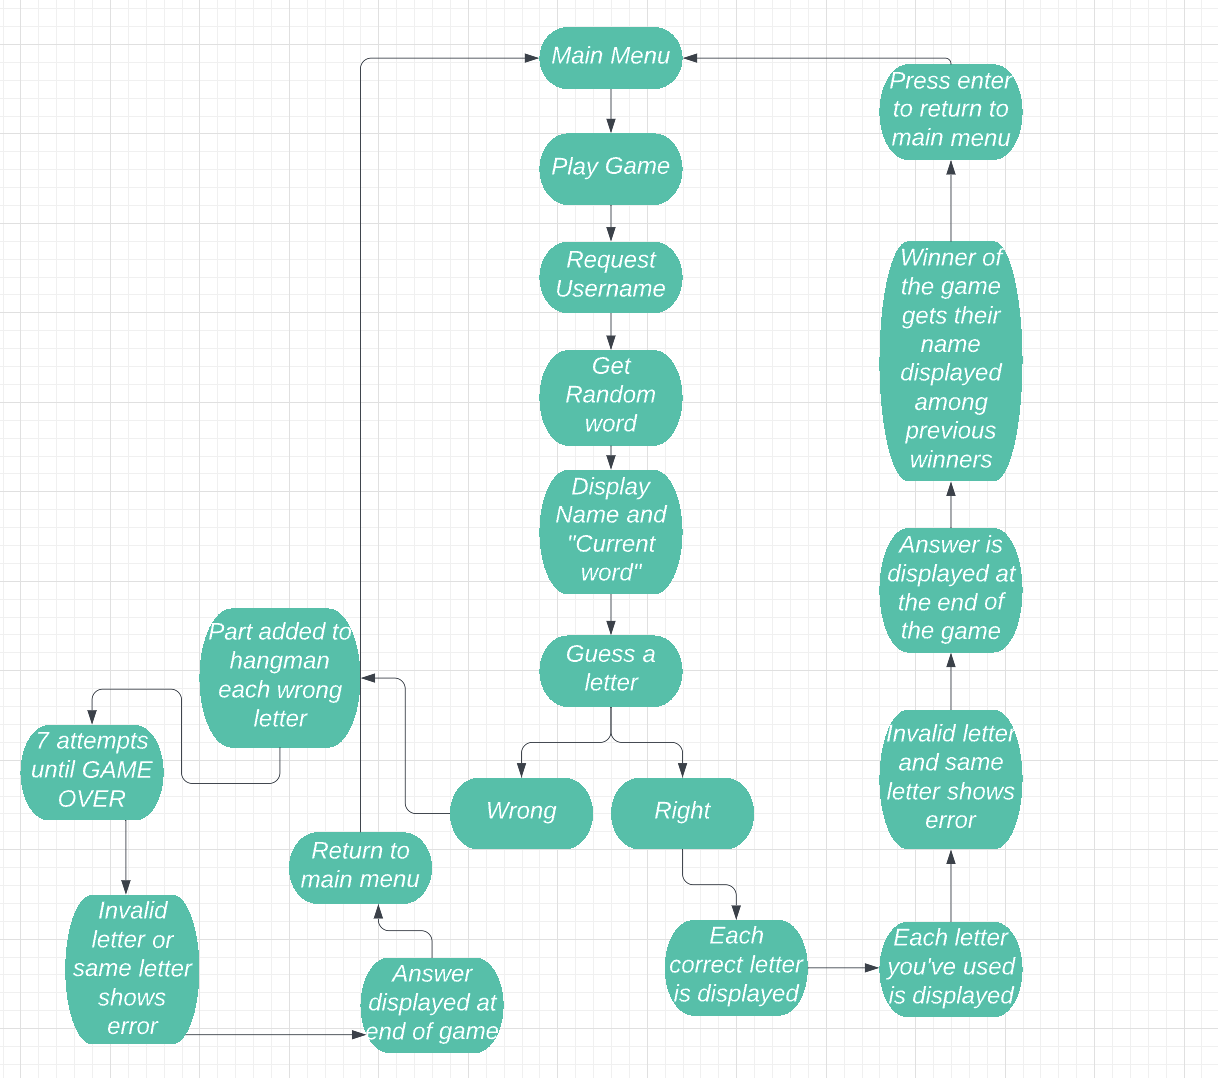
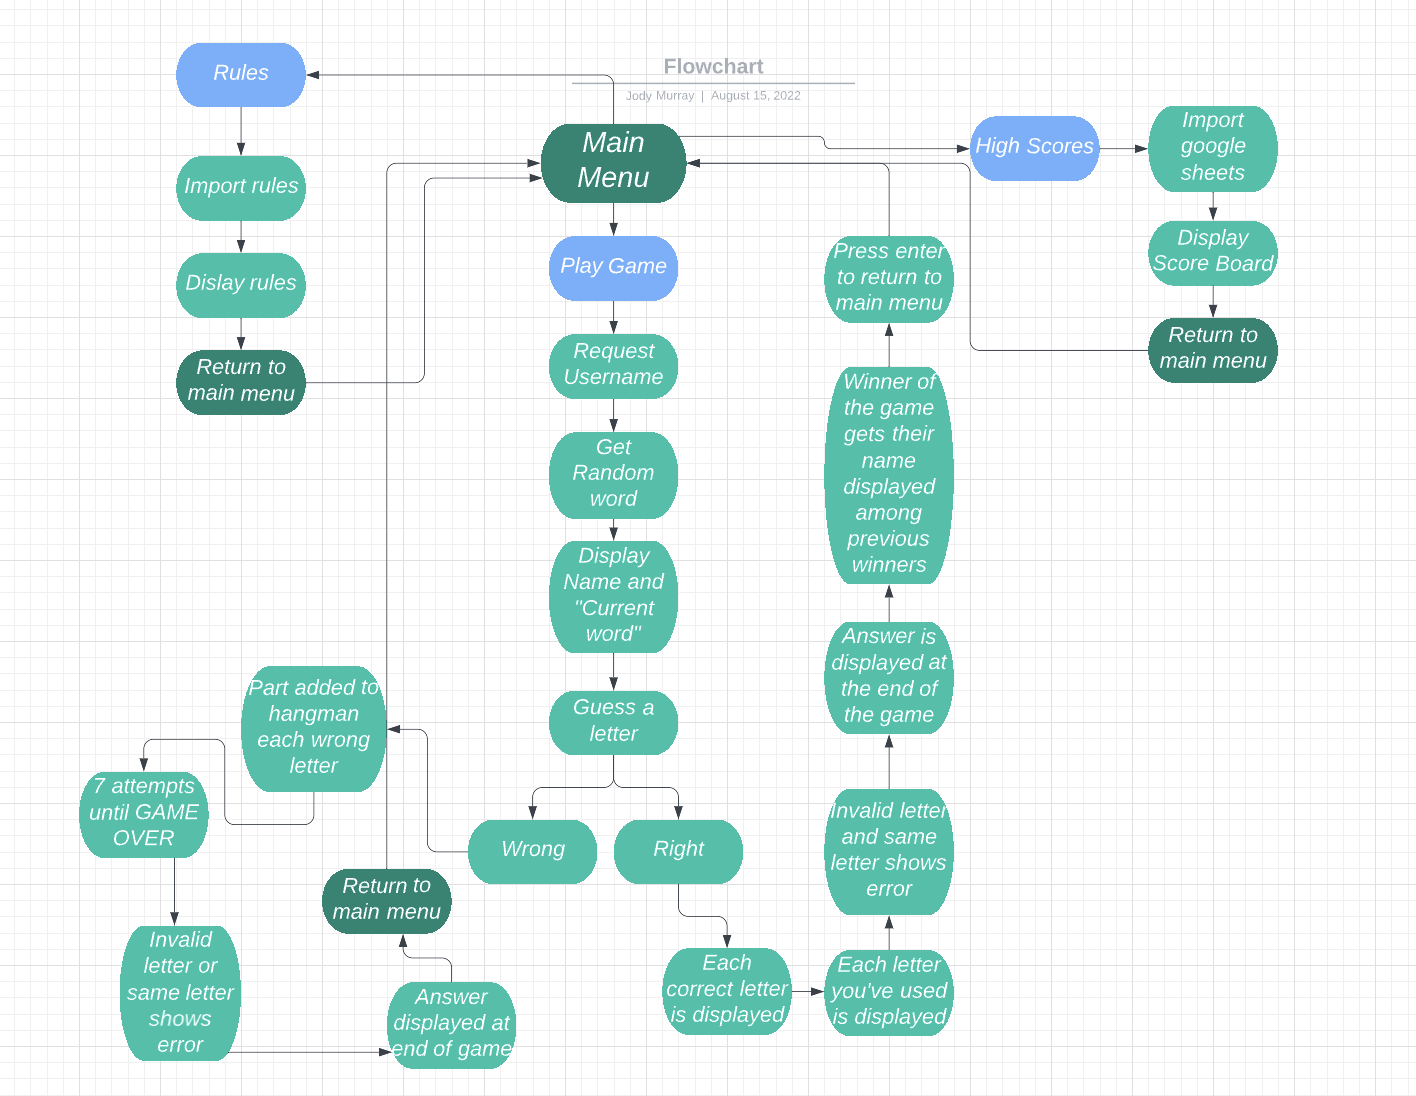
Spelling mistakes corrected in readme, and updated flowchart added

diff --git a/README.md b/README.md
@@ -1,10 +1,10 @@
-**Hangman**
+# Hangman Game
 
 ![screenshot](images/responsive.png)
 
-This game is based from the original Hangman game we all grew up with. A random word is selected and you're given the number of letters it contains. Guessing a new letter each go, if you choose correct, the terminal will tell you and show you where it belongs in the randonly chosen word, if you guess wrong, a line will be added to the "hangman" until it is complete.
+This game is based on the original Hangman game we all grew up with. A random word is selected and you're given the number of letters it contains. Guessing a new letter each go, if you choose correct, the terminal will tell you and show you where it belongs in the randomly chosen word, if you guess wrong, a line will be added to the "hangman" until it is complete.
 
-The words used are on a separate page and are chosen randomly from many, many words. The game only gives you 7 lives, which is the amount of wrong answers to complete the "hangman" image. 
+The words used are on a separate page and are chosen randomly from many words. The game only gives you 7 lives, which is the amount of wrong answers to complete the "hangman" image. 
 
 This project is the third of five projects that needs to be completed in order to receve a diploma in Software Development from The Code Institute.
 
@@ -44,7 +44,9 @@ A live version of this website will be found here: https://hangman-game00.heroku
 
   - [Validator testing](#validator-testing "Validator Testing")
   - [Testing and bugs](#testing-and-bugs "Testing and bugs")
-
+  - [Fixed Bugs](#fixed-bugs "Fixed Bugs") 
+  - [Unfixed Bugs](#unfixed-bugs "Unfixed Bugs")
+  - [Future plans to implement](#future-plans-to-implement "Future plans to implement")
 
 </details>
 
@@ -71,7 +73,7 @@ A live version of this website will be found here: https://hangman-game00.heroku
 ## UX 
 
 ## User Demographic
- This application has been designed for users of all ages just for some fun, to test their knowledge and see if they are any good at the class game, Hangman!
+ This application has been designed for users of all ages just for some fun, to test their knowledge and see if they are any good at the classic game, Hangman!
  
  ## User Goals
  * To have some fun and play Hangman!
@@ -179,21 +181,18 @@ The aim for this website is to create a user friendly terminal based application
 * [Google Sheets](https://www.google.com/sheets/about/)
 * [Google Drive](https://www.google.com/drive/)
 
-# Testing
-
-Testing and checking application functionality has been carried out continuously over the development of the project.
-
 # Validator Testing
 
 Code has been tested and corrected via the PEP8 Online Validator http://pep8online.com/.
+
+# Testing and bugs
+
+Testing and checking application functionality has been carried out continuously over the development of the project.
 
 # Fixed bugs
 
 ### - Colouring text was an issue with many arguments in a perameter.
 - Research from stackoverflow helped.
-
-### - Attempts to create a function to select level for game didn't work for me.
-- Left this out as it was taking me too long.
 
 ### - Getting high score list was showing up for both winners and losers.
 - Moved line of code to just have high scores showing and adding your name if you win.
@@ -204,9 +203,6 @@ Code has been tested and corrected via the PEP8 Online Validator http://pep8onli
 ### - Name request was coming up twice, at the beginning of the game and the end.
 - Moving the code to the correct function resolved this issue.
 
-### - Square brackets in the HighScores section.
-- Left this issue.
-
 ### - Lines were over the 79 character limit.
 - Went through all the corresponding lines of code and ammended them.
 
@@ -214,6 +210,13 @@ Code has been tested and corrected via the PEP8 Online Validator http://pep8onli
 ### Lots of trailing white spaces were detected.
 - Went through the corresponding lines of code and rectified the white spacing.
 
+# Unfixed Bugs
+### Google sheets brackets.
+- This solution I could not locate, not a bug or issue, just for aesthetics. Every solution I found didn't resolve it for google sheets.
+
+# Future plans to implement
+### Level selection.
+- For future plans for this project, I would like to include a level selection section, choosing from easy, medium and hard level words.
 
 # Deployment
 
